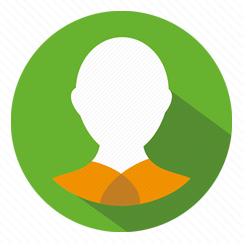
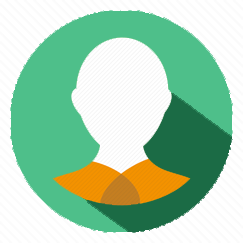
NavBar implementiert

diff --git a/client/src/components/NavBar.jsx b/client/src/components/NavBar.jsx
@@ -1,0 +1,90 @@
+import React from 'react'
+import {NavLink} from 'react-router-dom'
+import { assets } from '../assets/assets'
+import { useAppContext } from '../context/AppContext'
+
+const NavBar = () => {
+const [open, setOpen] = React.useState(false)
+const {user, setUser,setShowUserLogin, navigate} = useAppContext()
+
+const logout = async() => {
+    setUser(null) ;
+    navigate('/')
+}
+   return (
+        <nav className="flex items-center justify-between px-6 md:px-16 lg:px-24 xl:px-32 py-4 border-b
+         border-dark-green bg-white relative transition-all">
+
+            <NavLink to='/' onClick={() => setOpen(false)}>
+                <img className='h-9' src={assets.logo} alt='logo' />
+           </NavLink>
+
+            {/* Desktop Menu */}
+            <div className="hidden sm:flex items-center gap-10">
+                <NavLink to='/' className='hover:text-primary hover:text-xl hover:transition-duration:200ms'>Home</NavLink>
+                <NavLink to='/products' className='hover:text-primary hover:text-xl hover:transition-duration:200ms'>Produkte</NavLink>
+                <NavLink to='/contact' className='hover:text-primary hover:text-xl hover:transition-duration:200ms'>Kontakt</NavLink>
+
+                <div className="hidden lg:flex items-center text-sm gap-2 border border-dark-green px-3 rounded-full">
+                    <input className="py-1.5 w-full bg-transparent outline-none placeholder-primary" type="text" placeholder="Search products" />
+                    <svg width="16" height="16" viewBox="0 0 16 16" fill="none" xmlns="http://www.w3.org/2000/svg">
+                        <path d="M10.836 10.615 15 14.695" stroke="#1b6b45" stroke-width="1.2" stroke-linecap="round" stroke-linejoin="round" />
+                        <path clip-rule="evenodd" d="M9.141 11.738c2.729-1.136 4.001-4.224 2.841-6.898S7.67.921 4.942 2.057C2.211 3.193.94 6.281 2.1 8.955s4.312 3.92 7.041 2.783" stroke="#1b6b45" stroke-width="1.2" stroke-linecap="round" stroke-linejoin="round" />
+                    </svg>
+                </div>
+
+                <div onClick={() => navigate('/cart')} className="relative cursor-pointer">
+                    <img src={assets.cart_icon} alt='shopping cart' className='w-6 opacity-80'/>
+                    <button className="absolute -top-2 -right-3 text-xs text-white bg-dark-green w-[18px] h-[18px] rounded-full">3</button>
+                </div>
+
+                {!user ? (
+                    <button onClick={() => setShowUserLogin(true)} className="cursor-pointer px-6 py-2 mt-2 bg-primary hover:bg-dark-green transition text-white rounded-full text-sm">
+                    Anmelden
+                </button>
+                ) : (
+                   <div className='relative group'>
+                    <img src={assets.profile_icon} className='w-10' alt='profile'/>
+                    <ul className='hidden group-hover:block absolute top-10 right-0 bg-white shadow border
+                     border-dark-green  py-2.5 w-30 rounded-md text-sm z-40'>
+                        <li onClick={() => navigate('orders')} className='p-1.5 hover:bg-primary-dull/10 cursor-pointer'>Einkaufswagen</li>
+                        <li onClick={logout} className='p-1.5 hover:bg-primary-dull/10 cursor-pointer'>Abmelden</li>
+                    </ul>
+                   </div>
+                )}
+            </div>
+
+            <button onClick={() => open ? setOpen(false) : setOpen(true)} aria-label="Menu" className="sm:hidden">
+                {/* Menu Icon SVG */}
+                <img src={assets.menu_icon} alt='menu'/>
+            </button>
+
+            {/* Mobile Menu */}
+            { open  && (
+            <div className={`${open ? 'flex' : 'hidden'} absolute top-[60px] left-0 w-full bg-white shadow-md py-4 flex-col items-start gap-2 px-5 text-sm md:hidden`}>
+               <NavLink to='/' onClick={() => setOpen(false)}>Home</NavLink>
+                <NavLink to='/products'onClick={() => setOpen(false)}>Produkte</NavLink>
+                {user &&
+                <NavLink to='/orders' onClick={() => setOpen(false)}>Einkaufswagen</NavLink>
+                }
+                <NavLink to='/contact'onClick={() => setOpen(false)}>Kontakt</NavLink>
+                {!user ? (
+                    <button onClick={() => {
+                        setOpen(false);
+                        setShowUserLogin(true)
+                    }} className="cursor-pointer px-6 py-2 mt-2 bg-primary hover:bg-dark-green transition text-white rounded-full text-sm">
+                    Anmelden
+                </button>
+                ) : (
+                   <button className="cursor-pointer px-6 py-2 mt-2 bg-primary hover:bg-dark-green transition text-white rounded-full text-sm">
+                    Abmelden
+                </button> 
+                )
+                }
+            </div>
+              )}
+        </nav>
+    )
+}
+
+export default NavBar

diff --git a/client/src/context/AppContext.jsx b/client/src/context/AppContext.jsx
@@ -11,8 +11,10 @@ export const AppContextProvider = ({children}) => {
     const navigate = useNavigate();
     const [user, setUser] = useState(null)
     const [isSeller, setIsSeller] = useState(false)
+    const [showUserLogin, setShowUserLogin] = useState(false)
 
-    const value = {navigate, user, setUser,setIsSeller, isSeller}
+    const value = {navigate, user, setUser,setIsSeller,
+        isSeller, showUserLogin, setShowUserLogin}
 
 return <AppContext.Provider value={value} >
 {children}

diff --git a/client/src/index.css b/client/src/index.css
@@ -1,14 +1,14 @@
-@import "tailwindcss";
-
 /* Font "Outfit" google fonts */
 @import url('https://fonts.googleapis.com/css2?family=Outfit:wght@100..900&display=swap');
+@import "tailwindcss";
 
 *{
 font-family: "Outfit", sans-serif;
 }
 
 @theme{
-    --colour-primary: #4fbf8b;
-    --colour-primary-dull: #44ae7c;
+    --color-primary: #4fbf8b;
+    --color-primary-dull: #44ae7c;
+    --color-dark-green: #1b6b45
 
 }

diff --git a/client/index.html b/client/index.html
@@ -2,7 +2,7 @@
 <html lang="en">
   <head>
     <meta charset="UTF-8" />
-    <link rel="icon" type="image/svg+xml" href="/favicon.svg" />
+    <link rel="icon" type="image/svg+xml" href="/favicon.png" />
     <meta name="viewport" content="width=device-width, initial-scale=1.0" />
     <title>RegionalBox</title>
   </head>

diff --git a/client/src/assets/assets.js b/client/src/assets/assets.js
@@ -1,4 +1,4 @@
-import logo from "./logo.svg";
+import logo from "./logo.png";
 import search_icon from "./search_icon.svg";
 import remove_icon from "./remove_icon.svg";
 import arrow_right_icon_colored from "./arrow_right_icon_colored.svg";

diff --git a/client/src/App.jsx b/client/src/App.jsx
@@ -1,9 +1,10 @@
 import React from 'react'
+import NavBar from './components/NavBar'
 
 const App = () => {
   return (
     <div>
-        
+        <NavBar/>
     </div>
   )
 }
